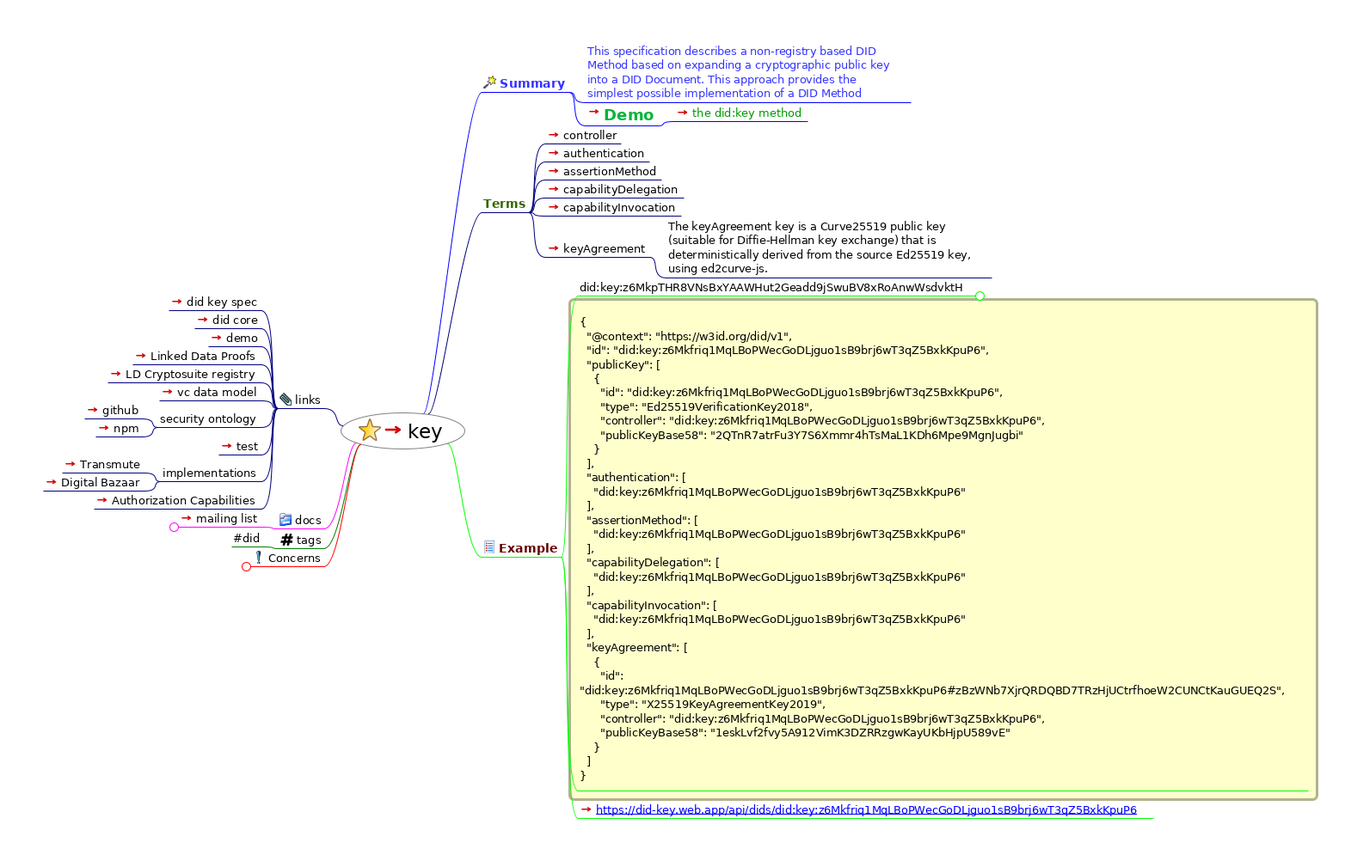
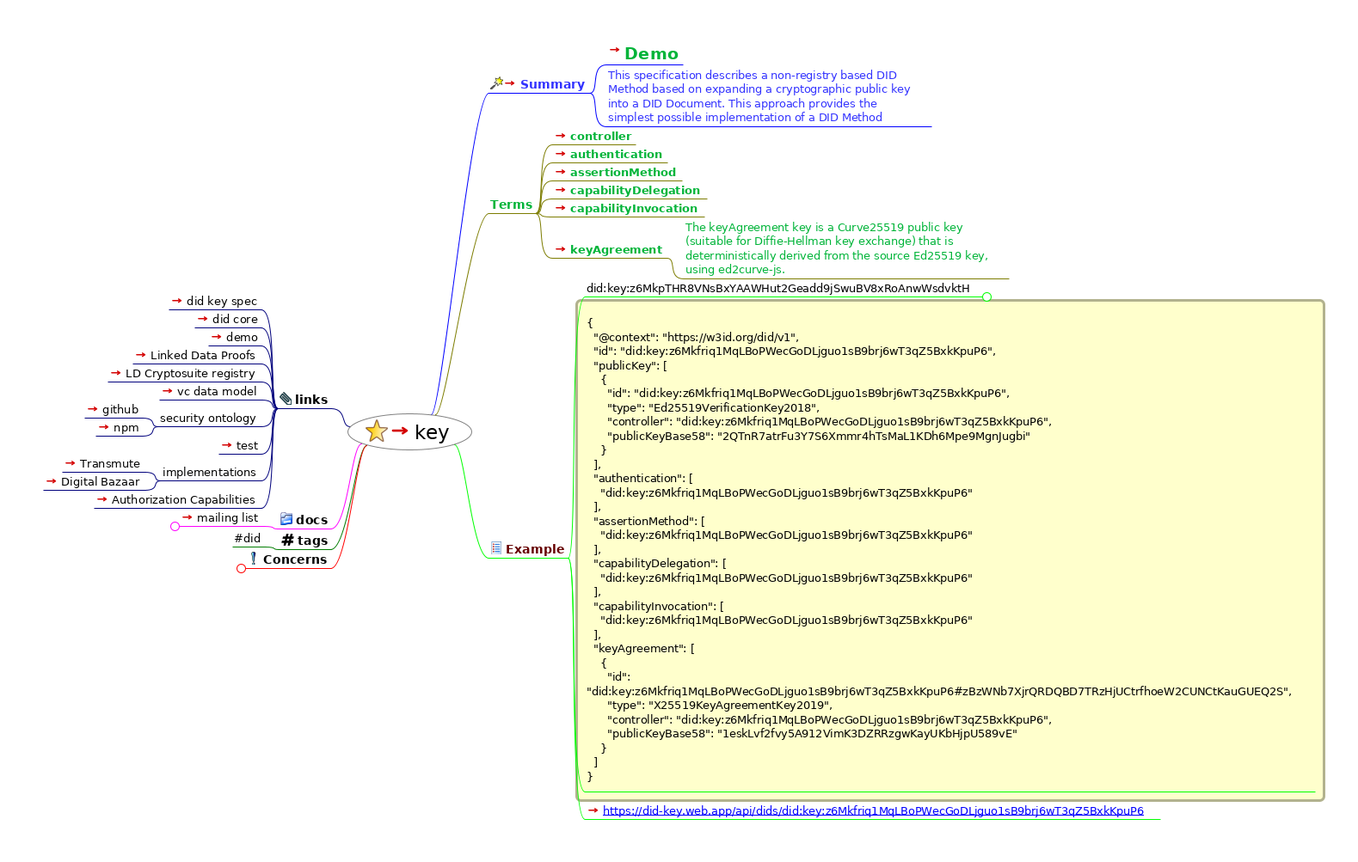
add demo to did key

Changed region(s): [[0.3431, 0.0309, 0.9357, 0.9281], [0.0312, 0.3094, 0.3431, 0.6806], [0.4367, 0.9281, 0.8421, 0.9591]]

diff --git a/w3c/did/key.html b/w3c/did/key.html
@@ -23,48 +23,47 @@
                    };
                };
           
-          --></script></head><body><h1>key</h1><div style="width:96%;  padding:2%;  margin-bottom:10px;  border: 0px;  text-align:center;  vertical-align:center;"><img src="key.html_files/image.png" style="margin-bottom:10px; &#9;border: 0px; &#9;text-align:center; &#9;vertical-align:center;" alt="Imagemap" usemap="#fm_imagemap" /></div><map name="fm_imagemap" id="fm_imagemap"><area shape="rect" href="index.html" alt="key" title="key" coords="396,480,541,523" />
-<area shape="rect" href="#FMID_1226961462FM" alt="Summary" title="Summary" coords="560,88,662,107" />
-<area shape="rect" href="#FMID_183149302FM" alt="This specification describes a non-regis ..." title="This specification describes a non-regis ..." coords="681,50,1059,119" />
-<area shape="rect" href="https://did-key.web.app/" alt="Demo" title="Demo" coords="681,122,765,146" />
-<area shape="rect" href="https://digitalbazaar.github.io/did-method-key/" alt="the did:key method" title="the did:key method" coords="784,123,939,141" />
-<area shape="rect" href="#FMID_45642208FM" alt="Terms" title="Terms" coords="560,228,615,247" />
-<area shape="rect" href="https://www.w3.org/TR/did-core/#terminology" alt="controller" title="controller" coords="634,149,722,167" />
-<area shape="rect" href="https://www.w3.org/TR/did-core/#authentication" alt="authentication" title="authentication" coords="634,170,755,188" />
-<area shape="rect" href="https://w3c.github.io/vc-data-model/#proofs-signatures-0" alt="assertionMethod" title="assertionMethod" coords="634,191,769,209" />
-<area shape="rect" href="https://w3c-ccg.github.io/zcap-ld/#terminology" alt="capabilityDelegation" title="capabilityDelegation" coords="634,212,795,230" />
-<area shape="rect" href="https://w3c-ccg.github.io/zcap-ld/#terminology" alt="capabilityInvocation" title="capabilityInvocation" coords="634,233,792,251" />
-<area shape="rect" href="https://github.com/digitalbazaar/did-method-key-js" alt="keyAgreement" title="keyAgreement" coords="634,281,756,299" />
-<area shape="rect" href="#FMID_1618462584FM" alt="The keyAgreement key is a Curve25519 pub ..." title="The keyAgreement key is a Curve25519 pub ..." coords="775,254,1153,323" />
-<area shape="rect" href="#FMID_120250381FM" alt="Example" title="Example" coords="560,629,653,648" />
-<area shape="rect" href="#FMID_985403617FM" alt="did:key:z6MkpTHR8VNsBxYAAWHut2Geadd9jSwu ..." title="did:key:z6MkpTHR8VNsBxYAAWHut2Geadd9jSwu ..." coords="672,326,1135,344" />
+          --></script></head><body><h1>key</h1><div style="width:96%;  padding:2%;  margin-bottom:10px;  border: 0px;  text-align:center;  vertical-align:center;"><img src="key.html_files/image.png" style="margin-bottom:10px; &#9;border: 0px; &#9;text-align:center; &#9;vertical-align:center;" alt="Imagemap" usemap="#fm_imagemap" /></div><map name="fm_imagemap" id="fm_imagemap"><area shape="rect" href="index.html" alt="key" title="key" coords="404,481,549,524" />
+<area shape="rect" href="https://digitalbazaar.github.io/did-method-key/" alt="Summary" title="Summary" coords="568,89,686,108" />
+<area shape="rect" href="https://did-key.web.app/" alt="Demo" title="Demo" coords="705,50,794,75" />
+<area shape="rect" href="#FMID_183149302FM" alt="This specification describes a non-regis ..." title="This specification describes a non-regis ..." coords="705,78,1083,147" />
+<area shape="rect" href="#FMID_45642208FM" alt="Terms" title="Terms" coords="568,229,623,248" />
+<area shape="rect" href="https://www.w3.org/TR/did-core/#terminology" alt="controller" title="controller" coords="642,150,739,168" />
+<area shape="rect" href="https://www.w3.org/TR/did-core/#authentication" alt="authentication" title="authentication" coords="642,171,776,189" />
+<area shape="rect" href="https://w3c.github.io/vc-data-model/#proofs-signatures-0" alt="assertionMethod" title="assertionMethod" coords="642,192,793,210" />
+<area shape="rect" href="https://w3c-ccg.github.io/zcap-ld/#terminology" alt="capabilityDelegation" title="capabilityDelegation" coords="642,213,822,231" />
+<area shape="rect" href="https://w3c-ccg.github.io/zcap-ld/#terminology" alt="capabilityInvocation" title="capabilityInvocation" coords="642,234,819,252" />
+<area shape="rect" href="https://github.com/digitalbazaar/did-method-key-js" alt="keyAgreement" title="keyAgreement" coords="642,282,776,300" />
+<area shape="rect" href="#FMID_1618462584FM" alt="The keyAgreement key is a Curve25519 pub ..." title="The keyAgreement key is a Curve25519 pub ..." coords="795,255,1173,324" />
+<area shape="rect" href="#FMID_120250381FM" alt="Example" title="Example" coords="568,630,661,649" />
+<area shape="rect" href="#FMID_985403617FM" alt="did:key:z6MkpTHR8VNsBxYAAWHut2Geadd9jSwu ..." title="did:key:z6MkpTHR8VNsBxYAAWHut2Geadd9jSwu ..." coords="680,327,1143,345" />
 <area shape="rect" href="#FMID_63600178FM" alt="{
   &quot;@context&quot;: &quot;https://w3id.org/did/v1 ..." title="{
-  &quot;@context&quot;: &quot;https://w3id.org/did/v1 ..." coords="672,358,1521,920" />
-<area shape="rect" href="https://did-key.web.app/api/dids/did:key:z6Mkfriq1MqLBoPWecGoDLjguo1sB9brj6wT3qZ5BxkKpuP6" alt="https://did-key.web.app/api/dids/did:key ..." title="https://did-key.web.app/api/dids/did:key ..." coords="672,934,1341,952" />
-<area shape="rect" href="#FMID_808607355FM" alt="links" title="links" coords="323,457,377,475" />
-<area shape="rect" href="https://digitalbazaar.github.io/did-method-key/" alt="did key spec" title="did key spec" coords="196,343,304,361" />
-<area shape="rect" href="https://w3c.github.io/did-core/" alt="did core" title="did core" coords="226,364,304,382" />
-<area shape="rect" href="https://did-key.web.app/" alt="demo" title="demo" coords="242,385,304,403" />
-<area shape="rect" href="https://w3c-dvcg.github.io/ld-proofs/#proof-purpose" alt="Linked Data Proofs" title="Linked Data Proofs" coords="154,406,304,424" />
-<area shape="rect" href="https://w3c-ccg.github.io/ld-cryptosuite-registry/" alt="LD Cryptosuite registry" title="LD Cryptosuite registry" coords="125,427,304,445" />
-<area shape="rect" href="https://www.w3.org/TR/vc-data-model/" alt="vc data model" title="vc data model" coords="185,448,304,466" />
-<area shape="rect" href="#FMID_1879313086FM" alt="security ontology" title="security ontology" coords="184,479,304,497" />
-<area shape="rect" href="https://github.com/w3c-dvcg/security-vocab/blob/master/contexts/security-v2.jsonld#L39" alt="github" title="github" coords="98,469,165,487" />
-<area shape="rect" href="https://www.npmjs.com/package/security-context" alt="npm" title="npm" coords="111,490,165,508" />
-<area shape="rect" href="https://github.com/digitalbazaar/did-method-key-js/blob/master/tests/driver.spec.js" alt="test" title="test" coords="254,511,304,529" />
-<area shape="rect" href="#FMID_266162917FM" alt="implementations" title="implementations" coords="187,542,304,560" />
-<area shape="rect" href="https://github.com/transmute-industries/did-key" alt="Transmute" title="Transmute" coords="72,532,168,550" />
-<area shape="rect" href="https://github.com/digitalbazaar/did-method-key-js#table-of-contents" alt="Digital Bazaar" title="Digital Bazaar" coords="50,553,168,571" />
-<area shape="rect" href="https://w3c-ccg.github.io/zcap-ld/#terminology" alt="Authorization Capabilities" title="Authorization Capabilities" coords="109,574,304,592" />
-<area shape="rect" href="#FMID_1100215200FM" alt="docs" title="docs" coords="323,597,377,615" />
-<area shape="rect" href="https://lists.w3.org/Archives/Public/public-credentials/2019Nov/thread.html" alt="mailing list" title="mailing list" coords="207,595,304,613" />
-<area shape="rect" href="#FMID_466759422FM" alt="tags" title="tags" coords="324,620,377,638" />
-<area shape="rect" href="#FMID_1467263929FM" alt="#did" title="#did" coords="269,618,305,636" />
-<area shape="rect" href="#FMID_1414960960FM" alt="Concerns" title="Concerns" coords="291,641,377,659" />
+  &quot;@context&quot;: &quot;https://w3id.org/did/v1 ..." coords="680,359,1529,921" />
+<area shape="rect" href="https://did-key.web.app/api/dids/did:key:z6Mkfriq1MqLBoPWecGoDLjguo1sB9brj6wT3qZ5BxkKpuP6" alt="https://did-key.web.app/api/dids/did:key ..." title="https://did-key.web.app/api/dids/did:key ..." coords="680,935,1349,953" />
+<area shape="rect" href="#FMID_808607355FM" alt="links" title="links" coords="323,456,385,475" />
+<area shape="rect" href="https://digitalbazaar.github.io/did-method-key/" alt="did key spec" title="did key spec" coords="196,342,304,360" />
+<area shape="rect" href="https://w3c.github.io/did-core/" alt="did core" title="did core" coords="226,363,304,381" />
+<area shape="rect" href="https://did-key.web.app/" alt="demo" title="demo" coords="242,384,304,402" />
+<area shape="rect" href="https://w3c-dvcg.github.io/ld-proofs/#proof-purpose" alt="Linked Data Proofs" title="Linked Data Proofs" coords="154,405,304,423" />
+<area shape="rect" href="https://w3c-ccg.github.io/ld-cryptosuite-registry/" alt="LD Cryptosuite registry" title="LD Cryptosuite registry" coords="125,426,304,444" />
+<area shape="rect" href="https://www.w3.org/TR/vc-data-model/" alt="vc data model" title="vc data model" coords="185,447,304,465" />
+<area shape="rect" href="#FMID_1879313086FM" alt="security ontology" title="security ontology" coords="184,478,304,496" />
+<area shape="rect" href="https://github.com/w3c-dvcg/security-vocab/blob/master/contexts/security-v2.jsonld#L39" alt="github" title="github" coords="98,468,165,486" />
+<area shape="rect" href="https://www.npmjs.com/package/security-context" alt="npm" title="npm" coords="111,489,165,507" />
+<area shape="rect" href="https://github.com/digitalbazaar/did-method-key-js/blob/master/tests/driver.spec.js" alt="test" title="test" coords="254,510,304,528" />
+<area shape="rect" href="#FMID_266162917FM" alt="implementations" title="implementations" coords="187,541,304,559" />
+<area shape="rect" href="https://github.com/transmute-industries/did-key" alt="Transmute" title="Transmute" coords="72,531,168,549" />
+<area shape="rect" href="https://github.com/digitalbazaar/did-method-key-js#table-of-contents" alt="Digital Bazaar" title="Digital Bazaar" coords="50,552,168,570" />
+<area shape="rect" href="https://w3c-ccg.github.io/zcap-ld/#terminology" alt="Authorization Capabilities" title="Authorization Capabilities" coords="109,573,304,591" />
+<area shape="rect" href="#FMID_1100215200FM" alt="docs" title="docs" coords="324,596,385,615" />
+<area shape="rect" href="https://lists.w3.org/Archives/Public/public-credentials/2019Nov/thread.html" alt="mailing list" title="mailing list" coords="208,594,305,612" />
+<area shape="rect" href="#FMID_466759422FM" alt="tags" title="tags" coords="325,620,385,639" />
+<area shape="rect" href="#FMID_1467263929FM" alt="#did" title="#did" coords="270,618,306,636" />
+<area shape="rect" href="#FMID_1414960960FM" alt="Concerns" title="Concerns" coords="285,642,385,661" />
 </map>
 
[2 lines of base64/hex data omitted]
     <a http-equiv="content-type" content="text/html; charset=utf-8" href="https://did-key.web.app/api/dids/did:key:z6Mkfriq1MqLBoPWecGoDLjguo1sB9brj6wT3qZ5BxkKpuP6">https://did-key.web.app/api/dids/did:key:z6Mkfriq1MqLBoPWecGoDLjguo1sB9brj6wT3qZ5BxkKpuP6</a>
-  </a> <a href="https://did-key.web.app/api/dids/did:key:z6Mkfriq1MqLBoPWecGoDLjguo1sB9brj6wT3qZ5BxkKpuP6"><img src="key.html_files/ilink.png" alt="User Link" style="border-width:0" /></a></div></div></div></div><div class="node"><img src="key.html_files/hide.png" class="hideshow" alt="hide" onClick="toggle(&quot;N67103&quot;)" id="imgN67103" /><img src="key.html_files/icons/attach.svg" alt="attach" /> <a id="FMID_808607355FM" /><div class="nodecontent" style="color:#000000;font-size:83%;">links</div><div class="content" id="N67103"><div class="node"><img src="key.html_files/leaf.png" class="hideshow" alt="leaf" /><a id="FMID_674273555FM" /><div class="nodecontent" style="color:#000000;font-size:83%;"><a href="https://digitalbazaar.github.io/did-method-key/">did key spec</a> <a href="https://digitalbazaar.github.io/did-method-key/"><img src="key.html_files/ilink.png" alt="User Link" style="border-width:0" /></a></div></div><div class="node"><img src="key.html_files/leaf.png" class="hideshow" alt="leaf" /><a id="FMID_1309388462FM" /><div class="nodecontent" style="color:#000000;font-size:83%;"><a href="https://w3c.github.io/did-core/">did core</a> <a href="https://w3c.github.io/did-core/"><img src="key.html_files/ilink.png" alt="User Link" style="border-width:0" /></a></div></div><div class="node"><img src="key.html_files/leaf.png" class="hideshow" alt="leaf" /><a id="FMID_863930071FM" /><div class="nodecontent" style="color:#000000;font-size:83%;"><a href="https://did-key.web.app/">demo</a> <a href="https://did-key.web.app/"><img src="key.html_files/ilink.png" alt="User Link" style="border-width:0" /></a></div></div><div class="node"><img src="key.html_files/leaf.png" class="hideshow" alt="leaf" /><a id="FMID_320437573FM" /><div class="nodecontent" style="color:#000000;font-size:83%;"><a href="https://w3c-dvcg.github.io/ld-proofs/#proof-purpose">Linked Data Proofs</a> <a href="https://w3c-dvcg.github.io/ld-proofs/#proof-purpose"><img src="key.html_files/ilink.png" alt="User Link" style="border-width:0" /></a></div></div><div class="node"><img src="key.html_files/leaf.png" class="hideshow" alt="leaf" /><a id="FMID_570765293FM" /><div class="nodecontent" style="color:#000000;font-size:83%;"><a href="https://w3c-ccg.github.io/ld-cryptosuite-registry/">LD Cryptosuite registry</a> <a href="https://w3c-ccg.github.io/ld-cryptosuite-registry/"><img src="key.html_files/ilink.png" alt="User Link" style="border-width:0" /></a></div></div><div class="node"><img src="key.html_files/leaf.png" class="hideshow" alt="leaf" /><a id="FMID_1387965929FM" /><div class="nodecontent" style="color:#000000;font-size:83%;"><a href="https://www.w3.org/TR/vc-data-model/">vc data model</a> <a href="https://www.w3.org/TR/vc-data-model/"><img src="key.html_files/ilink.png" alt="User Link" style="border-width:0" /></a></div></div><div class="node"><img src="key.html_files/hide.png" class="hideshow" alt="hide" onClick="toggle(&quot;N67366&quot;)" id="imgN67366" /><a id="FMID_1879313086FM" /><div class="nodecontent" style="color:#000000;font-size:83%;">security ontology</div><div class="content" id="N67366"><div class="node"><img src="key.html_files/leaf.png" class="hideshow" alt="leaf" /><a id="FMID_1802414645FM" /><div class="nodecontent" style="color:#000000;font-size:83%;"><a href="https://github.com/w3c-dvcg/security-vocab/blob/master/contexts/security-v2.jsonld#L39">github</a> <a href="https://github.com/w3c-dvcg/security-vocab/blob/master/contexts/security-v2.jsonld#L39"><img src="key.html_files/ilink.png" alt="User Link" style="border-width:0" /></a></div></div><div class="node"><img src="key.html_files/leaf.png" class="hideshow" alt="leaf" /><a id="FMID_689455920FM" /><div class="nodecontent" style="color:#000000;font-size:83%;"><a href="https://www.npmjs.com/package/security-context">npm</a> <a href="https://www.npmjs.com/package/security-context"><img src="key.html_files/ilink.png" alt="User Link" style="border-width:0" /></a></div></div></div></div><div class="node"><img src="key.html_files/leaf.png" class="hideshow" alt="leaf" /><a id="FMID_1984008598FM" /><div class="nodecontent" style="color:#000000;font-size:83%;"><a href="https://github.com/digitalbazaar/did-method-key-js/blob/master/tests/driver.spec.js">test</a> <a href="https://github.com/digitalbazaar/did-method-key-js/blob/master/tests/driver.spec.js"><img src="key.html_files/ilink.png" alt="User Link" style="border-width:0" /></a></div></div><div class="node"><img src="key.html_files/hide.png" class="hideshow" alt="hide" onClick="toggle(&quot;N67513&quot;)" id="imgN67513" /><a id="FMID_266162917FM" /><div class="nodecontent" style="color:#000000;font-size:83%;">implementations</div><div class="content" id="N67513"><div class="node"><img src="key.html_files/leaf.png" class="hideshow" alt="leaf" /><a id="FMID_699814464FM" /><div class="nodecontent" style="color:#000000;font-size:83%;"><a href="https://github.com/transmute-industries/did-key">Transmute</a> <a href="https://github.com/transmute-industries/did-key"><img src="key.html_files/ilink.png" alt="User Link" style="border-width:0" /></a></div></div><div class="node"><img src="key.html_files/leaf.png" class="hideshow" alt="leaf" /><a id="FMID_20457538FM" /><div class="nodecontent" style="color:#000000;font-size:83%;"><a href="https://github.com/digitalbazaar/did-method-key-js#table-of-contents">Digital Bazaar</a> <a href="https://github.com/digitalbazaar/did-method-key-js#table-of-contents"><img src="key.html_files/ilink.png" alt="User Link" style="border-width:0" /></a></div></div></div></div><div class="node"><img src="key.html_files/leaf.png" class="hideshow" alt="leaf" /><a id="FMID_1650944418FM" /><div class="nodecontent" style="color:#000000;font-size:83%;"><a href="https://w3c-ccg.github.io/zcap-ld/#terminology">Authorization Capabilities</a> <a href="https://w3c-ccg.github.io/zcap-ld/#terminology"><img src="key.html_files/ilink.png" alt="User Link" style="border-width:0" /></a></div></div></div></div><div class="node"><img src="key.html_files/hide.png" class="hideshow" alt="hide" onClick="toggle(&quot;N67661&quot;)" id="imgN67661" /><img src="key.html_files/icons/folder.svg" alt="folder" /> <a id="FMID_1100215200FM" /><div class="nodecontent" style="color:#000000;font-size:83%;">docs</div><div class="content" id="N67661"><div class="node"><img src="key.html_files/hide.png" class="hideshow" alt="hide" onClick="toggle(&quot;N67702&quot;)" id="imgN67702" /><a id="FMID_307060603FM" /><div class="nodecontent" style="color:#000000;font-size:83%;"><a href="https://lists.w3.org/Archives/Public/public-credentials/2019Nov/thread.html">mailing list</a> <a href="https://lists.w3.org/Archives/Public/public-credentials/2019Nov/thread.html"><img src="key.html_files/ilink.png" alt="User Link" style="border-width:0" /></a></div><div class="content" id="N67702"><div class="node"><img src="key.html_files/hide.png" class="hideshow" alt="hide" onClick="toggle(&quot;N67739&quot;)" id="imgN67739" /><a id="FMID_387619455FM" /><div class="nodecontent" style="color:#000000;font-size:83%;">Discussion</div><div class="content" id="N67739"><div class="node"><img src="key.html_files/hide.png" class="hideshow" alt="hide" onClick="toggle(&quot;N67774&quot;)" id="imgN67774" /><a id="FMID_142448183FM" /><div class="nodecontent" style="color:#000000;font-size:83%;">Mailing LIst</div><div class="content" id="N67774"><div class="node"><img src="key.html_files/hide.png" class="hideshow" alt="hide" onClick="toggle(&quot;N67809&quot;)" id="imgN67809" /><a id="FMID_1424305860FM" /><div class="nodecontent" style="color:#000000;font-size:83%;"><a href="https://lists.w3.org/Archives/Public/public-credentials/2019Nov/0099.html">Clarify syntax and predicates</a> <a href="https://lists.w3.org/Archives/Public/public-credentials/2019Nov/0099.html"><img src="key.html_files/ilink.png" alt="User Link" style="border-width:0" /></a></div><div class="content" id="N67809"><div class="node"><img src="key.html_files/leaf.png" class="hideshow" alt="leaf" /><a id="FMID_1445806045FM" /><div class="nodecontent" style="color:#000000;font-size:83%;">Melvin Carvalho</div></div></div></div><div class="node"><img src="key.html_files/hide.png" class="hideshow" alt="hide" onClick="toggle(&quot;N67882&quot;)" id="imgN67882" /><a id="FMID_527755790FM" /><div class="nodecontent" style="color:#000000;font-size:83%;"><a href="https://lists.w3.org/Archives/Public/public-credentials/2019Nov/0101.html">Clarifications and demo</a> <a href="https://lists.w3.org/Archives/Public/public-credentials/2019Nov/0101.html"><img src="key.html_files/ilink.png" alt="User Link" style="border-width:0" /></a></div><div class="content" id="N67882"><div class="node"><img src="key.html_files/leaf.png" class="hideshow" alt="leaf" /><a id="FMID_1746695661FM" /><div class="nodecontent" style="color:#000000;font-size:83%;">Manu Sporny</div></div></div></div></div></div></div></div></div></div></div></div><div class="node"><img src="key.html_files/hide.png" class="hideshow" alt="hide" onClick="toggle(&quot;N67959&quot;)" id="imgN67959" /><img src="key.html_files/icons/hashtag.png" alt="hashtag" /> <a id="FMID_466759422FM" /><div class="nodecontent" style="color:#000000;font-size:83%;">tags</div><div class="content" id="N67959"><div class="node"><img src="key.html_files/leaf.png" class="hideshow" alt="leaf" /><a id="FMID_1467263929FM" /><div class="nodecontent" style="color:#000000;font-size:83%;">#did</div></div></div></div><div class="node"><img src="key.html_files/hide.png" class="hideshow" alt="hide" onClick="toggle(&quot;N68037&quot;)" id="imgN68037" /><img src="key.html_files/icons/yes.svg" alt="yes" /> <a id="FMID_1414960960FM" /><div class="nodecontent" style="color:#000000;font-size:83%;">Concerns</div><div class="content" id="N68037"><div class="node"><img src="key.html_files/hide.png" class="hideshow" alt="hide" onClick="toggle(&quot;N68079&quot;)" id="imgN68079" /><a id="FMID_1039236328FM" /><div class="nodecontent" style="color:#000000;font-size:83%;">claims</div><div class="content" id="N68079"><div class="node"><img src="key.html_files/leaf.png" class="hideshow" alt="leaf" /><a id="FMID_1634354247FM" /><div class="nodecontent" style="color:#000000;font-size:83%;">simplest possible implementation of a DID Method</div></div><div class="node"><img src="key.html_files/leaf.png" class="hideshow" alt="leaf" /><a id="FMID_1386411919FM" /><div class="nodecontent" style="color:#000000;font-size:83%;">This seems far from simple</div></div></div></div><div class="node"><img src="key.html_files/leaf.png" class="hideshow" alt="leaf" /><a id="FMID_139120582FM" /><div class="nodecontent" style="color:#000000;font-size:83%;">not easy to understand what predicates mean</div></div><div class="node"><img src="key.html_files/leaf.png" class="hideshow" alt="leaf" /><a id="FMID_342298248FM" /><div class="nodecontent" style="color:#000000;font-size:83%;">camelCase</div></div><div class="node"><img src="key.html_files/leaf.png" class="hideshow" alt="leaf" /><a id="FMID_1487848180FM" /><div class="nodecontent" style="color:#000000;font-size:83%;">one example uses pubkey with fragment the other uses the did</div></div></div></div></div></div>
+  </a> <a href="https://did-key.web.app/api/dids/did:key:z6Mkfriq1MqLBoPWecGoDLjguo1sB9brj6wT3qZ5BxkKpuP6"><img src="key.html_files/ilink.png" alt="User Link" style="border-width:0" /></a></div></div></div></div><div class="node"><img src="key.html_files/hide.png" class="hideshow" alt="hide" onClick="toggle(&quot;N67067&quot;)" id="imgN67067" /><img src="key.html_files/icons/attach.svg" alt="attach" /> <a id="FMID_808607355FM" /><div class="nodecontent" style="color:#000000;font-size:92%;font-weight:bold;">links</div><div class="content" id="N67067"><div class="node"><img src="key.html_files/leaf.png" class="hideshow" alt="leaf" /><a id="FMID_674273555FM" /><div class="nodecontent" style="color:#000000;font-size:83%;"><a href="https://digitalbazaar.github.io/did-method-key/">did key spec</a> <a href="https://digitalbazaar.github.io/did-method-key/"><img src="key.html_files/ilink.png" alt="User Link" style="border-width:0" /></a></div></div><div class="node"><img src="key.html_files/leaf.png" class="hideshow" alt="leaf" /><a id="FMID_1309388462FM" /><div class="nodecontent" style="color:#000000;font-size:83%;"><a href="https://w3c.github.io/did-core/">did core</a> <a href="https://w3c.github.io/did-core/"><img src="key.html_files/ilink.png" alt="User Link" style="border-width:0" /></a></div></div><div class="node"><img src="key.html_files/leaf.png" class="hideshow" alt="leaf" /><a id="FMID_863930071FM" /><div class="nodecontent" style="color:#000000;font-size:83%;"><a href="https://did-key.web.app/">demo</a> <a href="https://did-key.web.app/"><img src="key.html_files/ilink.png" alt="User Link" style="border-width:0" /></a></div></div><div class="node"><img src="key.html_files/leaf.png" class="hideshow" alt="leaf" /><a id="FMID_320437573FM" /><div class="nodecontent" style="color:#000000;font-size:83%;"><a href="https://w3c-dvcg.github.io/ld-proofs/#proof-purpose">Linked Data Proofs</a> <a href="https://w3c-dvcg.github.io/ld-proofs/#proof-purpose"><img src="key.html_files/ilink.png" alt="User Link" style="border-width:0" /></a></div></div><div class="node"><img src="key.html_files/leaf.png" class="hideshow" alt="leaf" /><a id="FMID_570765293FM" /><div class="nodecontent" style="color:#000000;font-size:83%;"><a href="https://w3c-ccg.github.io/ld-cryptosuite-registry/">LD Cryptosuite registry</a> <a href="https://w3c-ccg.github.io/ld-cryptosuite-registry/"><img src="key.html_files/ilink.png" alt="User Link" style="border-width:0" /></a></div></div><div class="node"><img src="key.html_files/leaf.png" class="hideshow" alt="leaf" /><a id="FMID_1387965929FM" /><div class="nodecontent" style="color:#000000;font-size:83%;"><a href="https://www.w3.org/TR/vc-data-model/">vc data model</a> <a href="https://www.w3.org/TR/vc-data-model/"><img src="key.html_files/ilink.png" alt="User Link" style="border-width:0" /></a></div></div><div class="node"><img src="key.html_files/hide.png" class="hideshow" alt="hide" onClick="toggle(&quot;N67330&quot;)" id="imgN67330" /><a id="FMID_1879313086FM" /><div class="nodecontent" style="color:#000000;font-size:83%;">security ontology</div><div class="content" id="N67330"><div class="node"><img src="key.html_files/leaf.png" class="hideshow" alt="leaf" /><a id="FMID_1802414645FM" /><div class="nodecontent" style="color:#000000;font-size:83%;"><a href="https://github.com/w3c-dvcg/security-vocab/blob/master/contexts/security-v2.jsonld#L39">github</a> <a href="https://github.com/w3c-dvcg/security-vocab/blob/master/contexts/security-v2.jsonld#L39"><img src="key.html_files/ilink.png" alt="User Link" style="border-width:0" /></a></div></div><div class="node"><img src="key.html_files/leaf.png" class="hideshow" alt="leaf" /><a id="FMID_689455920FM" /><div class="nodecontent" style="color:#000000;font-size:83%;"><a href="https://www.npmjs.com/package/security-context">npm</a> <a href="https://www.npmjs.com/package/security-context"><img src="key.html_files/ilink.png" alt="User Link" style="border-width:0" /></a></div></div></div></div><div class="node"><img src="key.html_files/leaf.png" class="hideshow" alt="leaf" /><a id="FMID_1984008598FM" /><div class="nodecontent" style="color:#000000;font-size:83%;"><a href="https://github.com/digitalbazaar/did-method-key-js/blob/master/tests/driver.spec.js">test</a> <a href="https://github.com/digitalbazaar/did-method-key-js/blob/master/tests/driver.spec.js"><img src="key.html_files/ilink.png" alt="User Link" style="border-width:0" /></a></div></div><div class="node"><img src="key.html_files/hide.png" class="hideshow" alt="hide" onClick="toggle(&quot;N67477&quot;)" id="imgN67477" /><a id="FMID_266162917FM" /><div class="nodecontent" style="color:#000000;font-size:83%;">implementations</div><div class="content" id="N67477"><div class="node"><img src="key.html_files/leaf.png" class="hideshow" alt="leaf" /><a id="FMID_699814464FM" /><div class="nodecontent" style="color:#000000;font-size:83%;"><a href="https://github.com/transmute-industries/did-key">Transmute</a> <a href="https://github.com/transmute-industries/did-key"><img src="key.html_files/ilink.png" alt="User Link" style="border-width:0" /></a></div></div><div class="node"><img src="key.html_files/leaf.png" class="hideshow" alt="leaf" /><a id="FMID_20457538FM" /><div class="nodecontent" style="color:#000000;font-size:83%;"><a href="https://github.com/digitalbazaar/did-method-key-js#table-of-contents">Digital Bazaar</a> <a href="https://github.com/digitalbazaar/did-method-key-js#table-of-contents"><img src="key.html_files/ilink.png" alt="User Link" style="border-width:0" /></a></div></div></div></div><div class="node"><img src="key.html_files/leaf.png" class="hideshow" alt="leaf" /><a id="FMID_1650944418FM" /><div class="nodecontent" style="color:#000000;font-size:83%;"><a href="https://w3c-ccg.github.io/zcap-ld/#terminology">Authorization Capabilities</a> <a href="https://w3c-ccg.github.io/zcap-ld/#terminology"><img src="key.html_files/ilink.png" alt="User Link" style="border-width:0" /></a></div></div></div></div><div class="node"><img src="key.html_files/hide.png" class="hideshow" alt="hide" onClick="toggle(&quot;N67625&quot;)" id="imgN67625" /><img src="key.html_files/icons/folder.svg" alt="folder" /> <a id="FMID_1100215200FM" /><div class="nodecontent" style="color:#000000;font-size:92%;font-weight:bold;">docs</div><div class="content" id="N67625"><div class="node"><img src="key.html_files/hide.png" class="hideshow" alt="hide" onClick="toggle(&quot;N67666&quot;)" id="imgN67666" /><a id="FMID_307060603FM" /><div class="nodecontent" style="color:#000000;font-size:83%;"><a href="https://lists.w3.org/Archives/Public/public-credentials/2019Nov/thread.html">mailing list</a> <a href="https://lists.w3.org/Archives/Public/public-credentials/2019Nov/thread.html"><img src="key.html_files/ilink.png" alt="User Link" style="border-width:0" /></a></div><div class="content" id="N67666"><div class="node"><img src="key.html_files/hide.png" class="hideshow" alt="hide" onClick="toggle(&quot;N67703&quot;)" id="imgN67703" /><a id="FMID_387619455FM" /><div class="nodecontent" style="color:#000000;font-size:83%;">Discussion</div><div class="content" id="N67703"><div class="node"><img src="key.html_files/hide.png" class="hideshow" alt="hide" onClick="toggle(&quot;N67738&quot;)" id="imgN67738" /><a id="FMID_142448183FM" /><div class="nodecontent" style="color:#000000;font-size:83%;">Mailing LIst</div><div class="content" id="N67738"><div class="node"><img src="key.html_files/hide.png" class="hideshow" alt="hide" onClick="toggle(&quot;N67773&quot;)" id="imgN67773" /><a id="FMID_1424305860FM" /><div class="nodecontent" style="color:#000000;font-size:83%;"><a href="https://lists.w3.org/Archives/Public/public-credentials/2019Nov/0099.html">Clarify syntax and predicates</a> <a href="https://lists.w3.org/Archives/Public/public-credentials/2019Nov/0099.html"><img src="key.html_files/ilink.png" alt="User Link" style="border-width:0" /></a></div><div class="content" id="N67773"><div class="node"><img src="key.html_files/leaf.png" class="hideshow" alt="leaf" /><a id="FMID_1445806045FM" /><div class="nodecontent" style="color:#000000;font-size:83%;">Melvin Carvalho</div></div></div></div><div class="node"><img src="key.html_files/hide.png" class="hideshow" alt="hide" onClick="toggle(&quot;N67846&quot;)" id="imgN67846" /><a id="FMID_527755790FM" /><div class="nodecontent" style="color:#000000;font-size:83%;"><a href="https://lists.w3.org/Archives/Public/public-credentials/2019Nov/0101.html">Clarifications and demo</a> <a href="https://lists.w3.org/Archives/Public/public-credentials/2019Nov/0101.html"><img src="key.html_files/ilink.png" alt="User Link" style="border-width:0" /></a></div><div class="content" id="N67846"><div class="node"><img src="key.html_files/leaf.png" class="hideshow" alt="leaf" /><a id="FMID_1746695661FM" /><div class="nodecontent" style="color:#000000;font-size:83%;">Manu Sporny</div></div></div></div></div></div></div></div></div></div></div></div><div class="node"><img src="key.html_files/hide.png" class="hideshow" alt="hide" onClick="toggle(&quot;N67923&quot;)" id="imgN67923" /><img src="key.html_files/icons/hashtag.png" alt="hashtag" /> <a id="FMID_466759422FM" /><div class="nodecontent" style="color:#000000;font-size:92%;font-weight:bold;">tags</div><div class="content" id="N67923"><div class="node"><img src="key.html_files/leaf.png" class="hideshow" alt="leaf" /><a id="FMID_1467263929FM" /><div class="nodecontent" style="color:#000000;font-size:83%;">#did</div></div></div></div><div class="node"><img src="key.html_files/hide.png" class="hideshow" alt="hide" onClick="toggle(&quot;N68001&quot;)" id="imgN68001" /><img src="key.html_files/icons/yes.svg" alt="yes" /> <a id="FMID_1414960960FM" /><div class="nodecontent" style="color:#000000;font-size:92%;font-weight:bold;">Concerns</div><div class="content" id="N68001"><div class="node"><img src="key.html_files/hide.png" class="hideshow" alt="hide" onClick="toggle(&quot;N68043&quot;)" id="imgN68043" /><a id="FMID_1039236328FM" /><div class="nodecontent" style="color:#000000;font-size:83%;">claims</div><div class="content" id="N68043"><div class="node"><img src="key.html_files/leaf.png" class="hideshow" alt="leaf" /><a id="FMID_1634354247FM" /><div class="nodecontent" style="color:#000000;font-size:83%;">simplest possible implementation of a DID Method</div></div><div class="node"><img src="key.html_files/leaf.png" class="hideshow" alt="leaf" /><a id="FMID_1386411919FM" /><div class="nodecontent" style="color:#000000;font-size:83%;">This seems far from simple</div></div></div></div><div class="node"><img src="key.html_files/leaf.png" class="hideshow" alt="leaf" /><a id="FMID_139120582FM" /><div class="nodecontent" style="color:#000000;font-size:83%;">not easy to understand what predicates mean</div></div><div class="node"><img src="key.html_files/leaf.png" class="hideshow" alt="leaf" /><a id="FMID_342298248FM" /><div class="nodecontent" style="color:#000000;font-size:83%;">camelCase</div></div><div class="node"><img src="key.html_files/leaf.png" class="hideshow" alt="leaf" /><a id="FMID_1487848180FM" /><div class="nodecontent" style="color:#000000;font-size:83%;">one example uses pubkey with fragment the other uses the did</div></div></div></div></div></div>
 </body></html>

diff --git a/w3c/did/key.mm b/w3c/did/key.mm
@@ -64,29 +64,39 @@
 </stylenode>
 </map_styles>
 </hook>
-<hook NAME="AutomaticEdgeColor" COUNTER="8" RULE="ON_BRANCH_CREATION"/>
-<node TEXT="Summary" POSITION="right" ID="ID_1226961462" CREATED="1570979963389" MODIFIED="1570980209554" COLOR="#3333ff">
+<hook NAME="AutomaticEdgeColor" COUNTER="11" RULE="ON_BRANCH_CREATION"/>
+<node TEXT="Summary" POSITION="right" ID="ID_1226961462" CREATED="1570979963389" MODIFIED="1574789737206" LINK="https://digitalbazaar.github.io/did-method-key/" COLOR="#3333ff">
 <icon BUILTIN="wizard"/>
 <font SIZE="11" BOLD="true"/>
 <edge COLOR="#0000ff"/>
+<node TEXT="Demo" LOCALIZED_STYLE_REF="AutomaticLayout.level,2" ID="ID_1464250735" CREATED="1574789274639" MODIFIED="1574789903794" LINK="https://did-key.web.app/" COLOR="#00b439">
+<font SIZE="15" BOLD="true"/>
+</node>
 <node TEXT="This specification describes a non-registry based DID Method based on expanding a cryptographic public key into a DID Document. This approach provides the simplest possible implementation of a DID Method" ID="ID_183149302" CREATED="1574789488614" MODIFIED="1574789631412" COLOR="#3333ff">
 <font BOLD="false"/>
 </node>
-<node TEXT="Demo" LOCALIZED_STYLE_REF="AutomaticLayout.level,2" ID="ID_1464250735" CREATED="1574789274639" MODIFIED="1574789303054" LINK="https://did-key.web.app/">
-<font BOLD="true"/>
-<node TEXT="the did:key method" ID="ID_1311877564" CREATED="1574530845000" MODIFIED="1574789655981" LINK="https://digitalbazaar.github.io/did-method-key/" COLOR="#009900"/>
 </node>
-</node>
-<node TEXT="Terms" POSITION="right" ID="ID_45642208" CREATED="1574615830873" MODIFIED="1574789115380" COLOR="#336600">
-<edge COLOR="#00007c"/>
+<node TEXT="Terms" POSITION="right" ID="ID_45642208" CREATED="1574615830873" MODIFIED="1574789859450" COLOR="#00b439">
+<edge COLOR="#7c7c00"/>
 <font SIZE="11" BOLD="true"/>
-<node TEXT="controller" ID="ID_29050614" CREATED="1574615833469" MODIFIED="1574789033858" LINK="https://www.w3.org/TR/did-core/#terminology"/>
-<node TEXT="authentication" ID="ID_1206287320" CREATED="1574615869340" MODIFIED="1574789056708" LINK="https://www.w3.org/TR/did-core/#authentication"/>
-<node TEXT="assertionMethod" ID="ID_1725784188" CREATED="1574615874000" MODIFIED="1574788936507" LINK="https://w3c.github.io/vc-data-model/#proofs-signatures-0"/>
-<node TEXT="capabilityDelegation" ID="ID_370889307" CREATED="1574615879526" MODIFIED="1574788955114" LINK="https://w3c-ccg.github.io/zcap-ld/#terminology"/>
-<node TEXT="capabilityInvocation" ID="ID_510883454" CREATED="1574615886031" MODIFIED="1574788959241" LINK="https://w3c-ccg.github.io/zcap-ld/#terminology"/>
-<node TEXT="keyAgreement" ID="ID_1908240927" CREATED="1574615894254" MODIFIED="1574789437709" LINK="https://github.com/digitalbazaar/did-method-key-js">
-<node TEXT="The keyAgreement key is a Curve25519 public key (suitable for Diffie-Hellman key exchange) that is deterministically derived from the source Ed25519 key, using ed2curve-js." ID="ID_1618462584" CREATED="1574781993446" MODIFIED="1574781993446"/>
+<node TEXT="controller" ID="ID_29050614" CREATED="1574615833469" MODIFIED="1574789871825" LINK="https://www.w3.org/TR/did-core/#terminology" COLOR="#00b439">
+<font BOLD="true"/>
+</node>
+<node TEXT="authentication" ID="ID_1206287320" CREATED="1574615869340" MODIFIED="1574789871831" LINK="https://www.w3.org/TR/did-core/#authentication" COLOR="#00b439">
+<font BOLD="true"/>
+</node>
+<node TEXT="assertionMethod" ID="ID_1725784188" CREATED="1574615874000" MODIFIED="1574789871831" LINK="https://w3c.github.io/vc-data-model/#proofs-signatures-0" COLOR="#00b439">
+<font BOLD="true"/>
+</node>
+<node TEXT="capabilityDelegation" ID="ID_370889307" CREATED="1574615879526" MODIFIED="1574789871832" LINK="https://w3c-ccg.github.io/zcap-ld/#terminology" COLOR="#00b439">
+<font BOLD="true"/>
+</node>
+<node TEXT="capabilityInvocation" ID="ID_510883454" CREATED="1574615886031" MODIFIED="1574789871832" LINK="https://w3c-ccg.github.io/zcap-ld/#terminology" COLOR="#00b439">
+<font BOLD="true"/>
+</node>
+<node TEXT="keyAgreement" ID="ID_1908240927" CREATED="1574615894254" MODIFIED="1574789871832" LINK="https://github.com/digitalbazaar/did-method-key-js" COLOR="#00b439">
+<font BOLD="true"/>
+<node TEXT="The keyAgreement key is a Curve25519 public key (suitable for Diffie-Hellman key exchange) that is deterministically derived from the source Ed25519 key, using ed2curve-js." ID="ID_1618462584" CREATED="1574781993446" MODIFIED="1574789839618" COLOR="#00b439"/>
 </node>
 </node>
 <node TEXT="Example" POSITION="right" ID="ID_120250381" CREATED="1570979967089" MODIFIED="1574789125525" COLOR="#660000">
@@ -112,9 +122,10 @@
 </richcontent>
 </node>
 </node>
-<node TEXT="links" POSITION="left" ID="ID_808607355" CREATED="1570968728188" MODIFIED="1570968728190">
+<node TEXT="links" POSITION="left" ID="ID_808607355" CREATED="1570968728188" MODIFIED="1574789881859">
 <icon BUILTIN="attach"/>
 <edge COLOR="#00007c"/>
+<font SIZE="11" BOLD="true"/>
 <node TEXT="did key spec" ID="ID_674273555" CREATED="1574615156865" MODIFIED="1574782546299" LINK="https://digitalbazaar.github.io/did-method-key/"/>
 <node TEXT="did core" ID="ID_1309388462" CREATED="1574615252347" MODIFIED="1574615258291" LINK="https://w3c.github.io/did-core/"/>
 <node TEXT="demo" ID="ID_863930071" CREATED="1574615507827" MODIFIED="1574615512173" LINK="https://did-key.web.app/"/>
@@ -132,9 +143,10 @@
 </node>
 <node TEXT="Authorization Capabilities" ID="ID_1650944418" CREATED="1574788148662" MODIFIED="1574788159914" LINK="https://w3c-ccg.github.io/zcap-ld/#terminology"/>
 </node>
-<node TEXT="docs" POSITION="left" ID="ID_1100215200" CREATED="1570969039178" MODIFIED="1570980265221">
+<node TEXT="docs" POSITION="left" ID="ID_1100215200" CREATED="1570969039178" MODIFIED="1574789886467">
 <icon BUILTIN="folder"/>
 <edge COLOR="#ff00ff"/>
+<font SIZE="11" BOLD="true"/>
 <node TEXT="mailing list" FOLDED="true" ID="ID_307060603" CREATED="1574596268933" MODIFIED="1574596274510" LINK="https://lists.w3.org/Archives/Public/public-credentials/2019Nov/thread.html">
 <node TEXT="Discussion" ID="ID_387619455" CREATED="1574595946140" MODIFIED="1574789080211">
 <node TEXT="Mailing LIst" ID="ID_142448183" CREATED="1574596208921" MODIFIED="1574615277987">
@@ -148,14 +160,16 @@
 </node>
 </node>
 </node>
-<node TEXT="tags" POSITION="left" ID="ID_466759422" CREATED="1570968754383" MODIFIED="1571340239144">
+<node TEXT="tags" POSITION="left" ID="ID_466759422" CREATED="1570968754383" MODIFIED="1574789886471">
 <icon BUILTIN="hashtag"/>
 <edge COLOR="#007c00"/>
+<font SIZE="11" BOLD="true"/>
 <node TEXT="#did" ID="ID_1467263929" CREATED="1574782581637" MODIFIED="1574782584378"/>
 </node>
-<node TEXT="Concerns" FOLDED="true" POSITION="left" ID="ID_1414960960" CREATED="1570968728177" MODIFIED="1574530860823">
+<node TEXT="Concerns" FOLDED="true" POSITION="left" ID="ID_1414960960" CREATED="1570968728177" MODIFIED="1574789886472">
 <icon BUILTIN="yes"/>
 <edge COLOR="#ff0000"/>
+<font SIZE="11" BOLD="true"/>
 <node TEXT="claims" ID="ID_1039236328" CREATED="1574530989571" MODIFIED="1574531029382">
 <node TEXT="simplest possible implementation of a DID Method" ID="ID_1634354247" CREATED="1574530997703" MODIFIED="1574626443377">
 <font BOLD="false"/>
